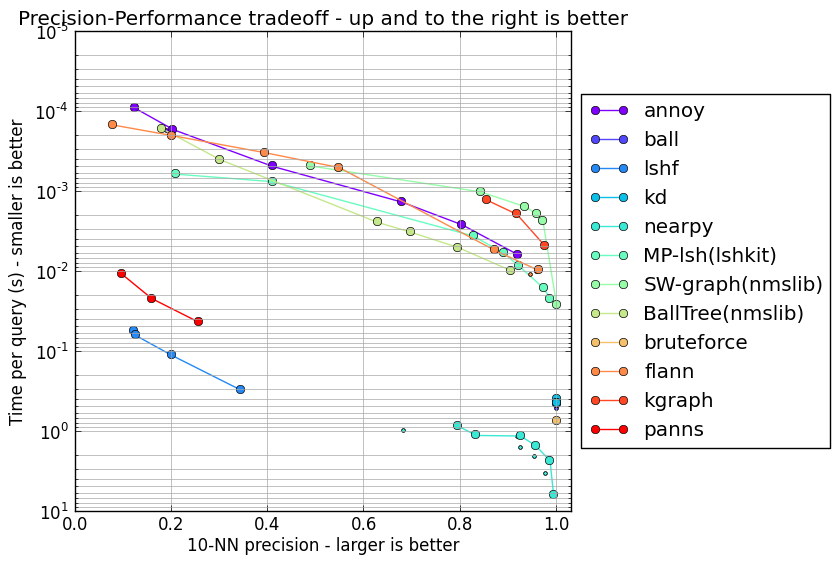
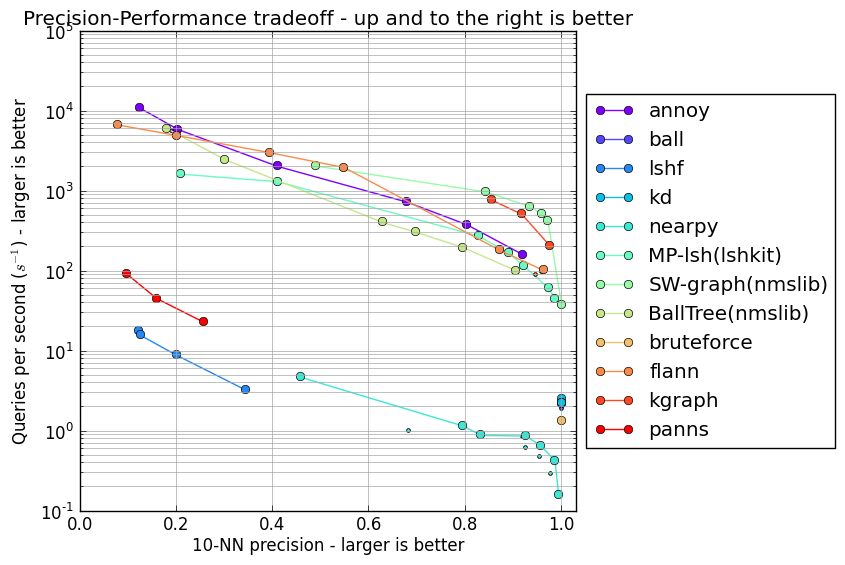
plot y axis as 'queries per second'
(instead of 'time per query' with inverted scale - marginally more logical)

Changed region(s): [[0.0, 0.0, 0.9595, 0.9929]]

diff --git a/plot.py b/plot.py
@@ -23,8 +23,8 @@ labels = []
 for algo, color in zip(all_data.keys(), colors):
     data = all_data[algo]
     data.sort(key=lambda t: t[-2]) # sort by time
-    xs = [t[-2] for t in data]
-    ys = [t[-1] for t in data]
+    ys = [1.0 / t[-2] for t in data] # queries per second
+    xs = [t[-1] for t in data]
     ls = [t[0] for t in data]
     plt.plot(xs, ys, 'o', label=algo, color=color, markersize=3)
     #for i, l in enumerate(ls):
@@ -37,20 +37,20 @@ for algo, color in zip(all_data.keys(), colors):
         y = t[-1]
         if y > last_y:
             last_y = y
-            ys.append(t[-1])
-            xs.append(t[-2])
+            xs.append(t[-1])
+            ys.append(1.0 / t[-2])
     handle, = plt.plot(xs, ys, 'o-', label=algo, color=color)
     handles.append(handle)
     labels.append(algo)
 
-plt.gca().set_xscale('log')
-plt.gca().set_title('Precision-Performance tradeoff - up and to the left is better')
-plt.gca().set_xlabel('Time per query (s) - lower is better')
-plt.gca().set_ylabel('10-NN precision - higher is better')
+plt.gca().set_yscale('log')
+plt.gca().set_title('Precision-Performance tradeoff - up and to the right is better')
+plt.gca().set_ylabel('Queries per second ($s^{-1}$) - larger is better')
+plt.gca().set_xlabel('10-NN precision - larger is better')
 box = plt.gca().get_position()
 plt.gca().set_position([box.x0, box.y0, box.width * 0.8, box.height])
 plt.gca().legend(handles, labels, loc='center left', bbox_to_anchor=(1, 0.5))
 plt.grid(b=True, which='both', color='0.65',linestyle='-')
-plt.ylim([0, 1.03])
+plt.xlim([0.0, 1.03])
 plt.savefig(args.output, bbox_inches='tight')
 
